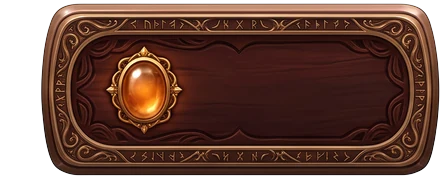
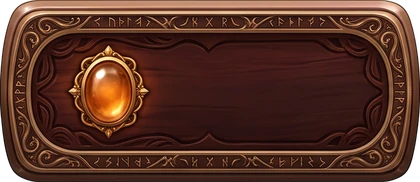
Очередь: круг-финиш на земле в конце каждой очереди (у торговца) + горящая/потухшая кнопки строго одного размера
- renderFlow: в конце пути (t=1, у будки) — концентрический круг-финиш на земле в цвете очереди с пульсом (в стиле линий-направления) → видно, что это конец очереди и ты дошёл до торговца
- главная кнопка модалки: btn-join-lit/dim перегенерены по НЕПРОЗРАЧНОЙ плашке (без ореола свечения) и приведены к точному 420x182 → горящая (Встать) и потухшая (Сначала выбери) идентичны по размеру; aspect-ratio кнопки обновлён

diff --git a/frontend/js/queue-scene.js b/frontend/js/queue-scene.js
@@ -373,6 +373,13 @@
   function renderFlow(b, pth) {
     var frag = document.createDocumentFragment();
     frag.appendChild(svgFlow(pth, b.accent));
+    // КРУГ-ФИНИШ на земле в конце очереди (у торговца) — концентрические кольца в цвете очереди
+    var endP = pathPoint(pth, 1);
+    var spot = document.createElement("div");
+    spot.className = "qs-endspot";
+    spot.style.cssText = "left:" + endP.x.toFixed(2) + "%;top:" + endP.y.toFixed(2) + "%;--gc:" + b.accent;
+    spot.innerHTML = '<span class="qs-endspot-core"></span><span class="qs-endspot-ping"></span>';
+    frag.appendChild(spot);
     var AR = 1.79;  // соотношение сцены — чтобы шеврон смотрел визуально верно
     [0.30, 0.52, 0.74].forEach(function (t, k) {
       var p = pathPoint(pth, t), p2 = pathPoint(pth, Math.min(1, t + 0.05));
@@ -554,6 +561,16 @@
     ".qs-chev{position:absolute;z-index:6;font:900 15px system-ui;line-height:1;color:var(--gc);pointer-events:none;" +
       "text-shadow:0 0 5px var(--gc),0 1px 1px rgba(0,0,0,.6);opacity:.22;animation:qsChevPulse 1.5s ease-in-out infinite}" +
     "@keyframes qsChevPulse{0%,100%{opacity:.18}45%{opacity:.88}}" +
+    // круг-финиш на земле у конца очереди (у торговца)
+    ".qs-endspot{position:absolute;transform:translate(-50%,-50%);width:8.5%;aspect-ratio:2/1;pointer-events:none;z-index:4}" +
+    ".qs-endspot-core{position:absolute;inset:0;border-radius:50%;border:2.5px solid var(--gc);" +
+      "box-shadow:0 0 12px -2px var(--gc),inset 0 0 12px -4px var(--gc);" +
+      "background:radial-gradient(ellipse at center,rgba(255,255,255,.08),transparent 68%)}" +
+    ".qs-endspot-core::after{content:'';position:absolute;left:50%;top:50%;width:30%;aspect-ratio:2/1;" +
+      "transform:translate(-50%,-50%);border-radius:50%;background:var(--gc);box-shadow:0 0 8px 1px var(--gc);opacity:.9}" +
+    ".qs-endspot-ping{position:absolute;inset:0;border-radius:50%;border:2px solid var(--gc);opacity:0;" +
+      "animation:qsEndPing 2.1s ease-out infinite}" +
+    "@keyframes qsEndPing{0%{transform:scale(.5);opacity:.8}100%{transform:scale(1.45);opacity:0}}" +
     /* торговец у будки */
     ".qs-merchant{position:absolute;height:calc(20% * var(--qs-merch-scale,1) * var(--qs-mscale,1));width:auto;" +
       "transform-origin:50% 100%;pointer-events:none;filter:drop-shadow(0 5px 7px rgba(0,0,0,.5))}" +
@@ -787,7 +804,7 @@
     /* липкий низ окна: кнопка «Встать» ВСЕГДА видна без прокрутки */
     ".qs-pick2-foot{position:sticky;bottom:0;margin:10px -16px 0;padding:11px 16px 14px;" +
       "background:linear-gradient(180deg,rgba(22,13,6,0),rgba(22,13,6,.97) 34%)}" +
-    ".qs-pick2-foot .qs-join{display:block;margin:0 auto;width:min(330px,82%);aspect-ratio:440/191;height:auto;min-height:0;" +
+    ".qs-pick2-foot .qs-join{display:block;margin:0 auto;width:min(330px,82%);aspect-ratio:420/182;height:auto;min-height:0;" +
       "border:0;box-shadow:none;background:url(assets/queue/ui/btn-join-lit.webp) center/contain no-repeat;" +
       "color:#ffe8bc;font:800 15px/1.15 system-ui;text-shadow:0 1px 3px #000,0 0 5px rgba(0,0,0,.6);" +
       "padding:0 8% 0 25%;filter:drop-shadow(0 4px 9px rgba(0,0,0,.4))}" +

diff --git a/frontend/queue.html b/frontend/queue.html
@@ -239,6 +239,6 @@
   <script src="js/view-as.js?v=1815100000"></script>
   <script src="js/queue-open.js?v=1815300000"></script>
   <script src="js/queue.js?v=1817300000"></script>
-  <script src="js/queue-scene.js?v=1849000000"></script>
+  <script src="js/queue-scene.js?v=1850000000"></script>
 </body>
 </html>